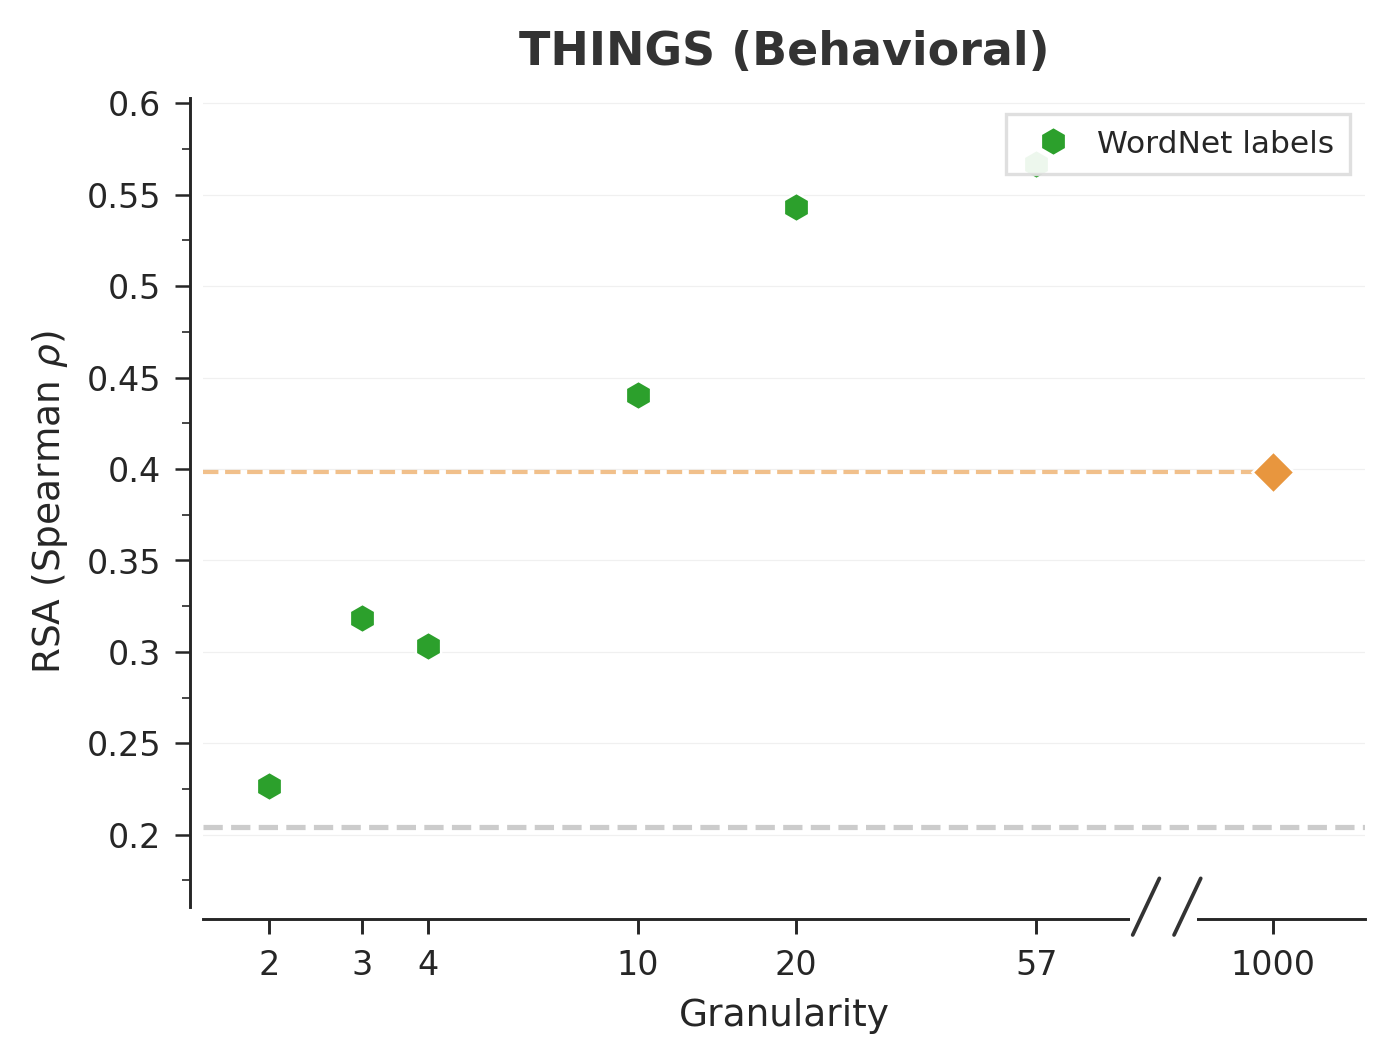
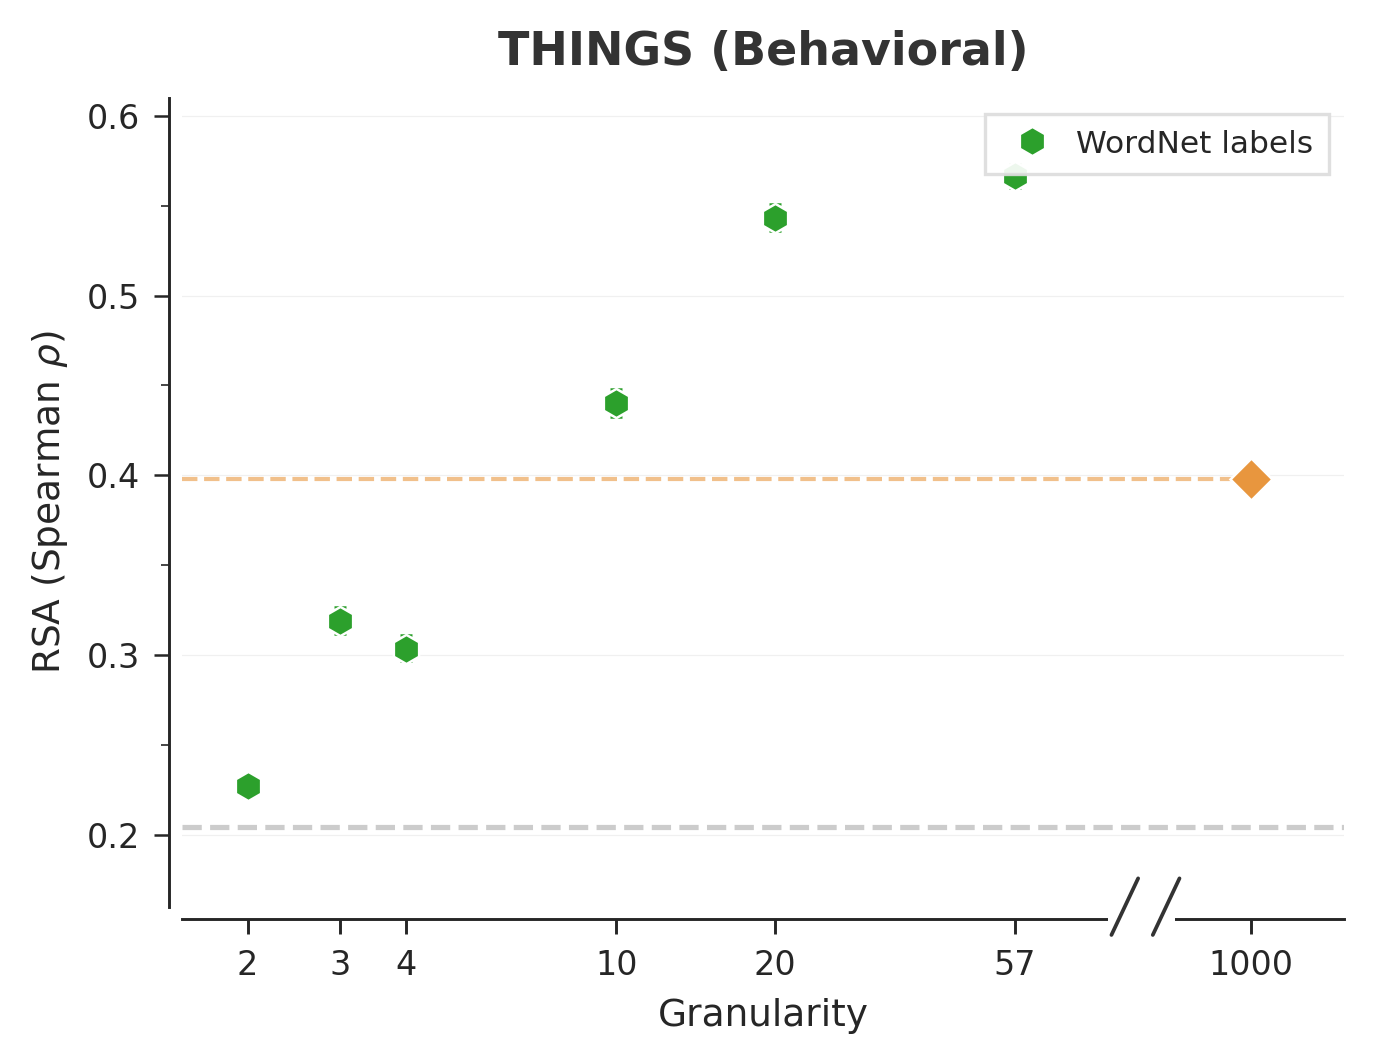
🎨 ED Figs 1/2/6/7: align y-axes and structure with main figures
ED Fig. 1a/2 neural panels now force per-(dataset, region) y-limits and
0.05 tick cadence to exactly match Fig. 3; ED Fig. 1b reuses
fig4.panel_coarseness.plot_coarseness via monkey-patched arch list so the
torn CI band, title, legend, and y-limits inherit from Fig. 4B. ED Fig. 2
neural panels reuse fig3.panel_raw for the torn-tear break and relocate
the legend between data and untrained line. ED Fig. 7 syncs y-limits to
Fig. 3. ED Fig. 6 neural keeps data-driven y-limits (Fig. 3's range
clipped low-k reconstruction tails) and drops the untrained legend entry
since it is labelled inline.

diff --git a/manuscript/figures/extended_data/S1_coarsegrain_models/S1_coarsegrain_models.py b/manuscript/figures/extended_data/S1_coarsegrain_models/S1_coarsegrain_models.py
@@ -228,10 +228,12 @@ def generate_s1a():
     # ── Pre-compute fig3 y-limits using its ORIGINAL 3-arch set ──
     panels = [
         # (row, col, dataset, region, show_ylabel, show_xlabel, show_untrained, tick_interval)
-        (0, 0, "tvsd", "V1",                    True,  False, False, None),
+        # tick_interval=0.05 everywhere so the major-tick cadence matches
+        # fig3's rendered panels (which auto-locate to 0.05 at fig3's size).
+        (0, 0, "tvsd", "V1",                    True,  False, False, 0.05),
         (0, 1, "tvsd", "IT",                    False, False, False, 0.05),
-        (1, 0, "nsd",  "early visual stream",   True,  True,  True,  None),
-        (1, 1, "nsd",  "ventral visual stream", False, True,  False, None),
+        (1, 0, "nsd",  "early visual stream",   True,  True,  True,  0.05),
+        (1, 1, "nsd",  "ventral visual stream", False, True,  False, 0.05),
     ]
     fig3_ylims = {
         (ds, region): _precompute_fig3_ylim(ds, region, ytick)
@@ -259,12 +261,14 @@ def generate_s1a():
     # ── Figure geometry matching fig3's data-panel x-axis width (3.747") ──
     # fig3: figsize=(14,8.5), left=0.06, right=0.97, 3 cols, wspace=0.20
     #       per-col width = 14*(0.97-0.06)/(3+2*0.20) = 3.7471"
-    # S1:   2 data cols, wspace=0.20, left=0.08, right=0.97
-    #       figsize_w = 3.7471*(2+0.20)/(0.97-0.08) = 9.264"
-    fig = plt.figure(figsize=(9.26, 6.8))
+    # S1:   2 data cols, wspace=0.20, left=0.13, right=0.97
+    #       figsize_w = 3.7471*(2+0.20)/(0.97-0.13) = 9.812"
+    # Wider left margin so the rotated TVSD/NSD row labels don't collide
+    # with the "RSA (Spearman ρ)" y-axis label of the left column.
+    fig = plt.figure(figsize=(9.81, 6.8))
     gs = gridspec.GridSpec(2, 2, figure=fig,
                            hspace=0.30, wspace=0.20,
-                           left=0.08, right=0.97, top=0.87, bottom=0.10)
+                           left=0.13, right=0.97, top=0.87, bottom=0.10)
 
     axes = {}
     try:
@@ -298,13 +302,14 @@ def generate_s1a():
                             color="#333333", pad=7)
 
     # Row headers — dataset labels
+    # Place row headers to the LEFT of the y-axis label, clear of it.
     for row, (title, subtitle) in enumerate([
         ("TVSD", "Macaque electrophysiology"),
         ("NSD", "Human fMRI"),
     ]):
         pos = axes[(row, 0)].get_position()
-        fig.text(0.02, (pos.y0 + pos.y1) / 2 + 0.015, title,
-                 fontsize=11, fontweight="bold", color="#1a1a1a",
+        fig.text(0.015, (pos.y0 + pos.y1) / 2, title,
+                 fontsize=12, fontweight="bold", color="#1a1a1a",
                  ha="center", va="center", rotation=90)
 
     # Column headers — cortical level
@@ -338,69 +343,32 @@ def generate_s1a():
 # ── S1B: THINGS Behavioral (single panel) ───────────────────────────────
 
 def generate_s1b():
-    """S1B: THINGS behavioral — single panel, all 4 PCA sources."""
-    fig, ax = plt.subplots(1, 1, figsize=(5, 3.8))
+    """S1B: THINGS behavioral — structurally identical to main Figure 4B.
 
-    bl_mean, bl_ci_low, bl_ci_high = _fetch_things_baseline(epoch=20)
-    un_mean, _, _ = _fetch_things_baseline(epoch=0)
+    Reuses `fig4.panel_coarseness.plot_coarseness` directly (same torn CI
+    band, same axes, same title, same legend styling) and monkey-patches
+    its architecture list to S1's 4 PCA sources.
+    """
+    sys.path.insert(0, "manuscript/figures/fig4")
+    import panel_coarseness as _fig4b  # noqa: WPS433
 
-    all_y = [bl_mean]
-    if not np.isnan(un_mean):
-        all_y.append(un_mean)
+    # Save fig4B originals; restore in finally
+    _orig_arches = _fig4b.ARCHITECTURES
+    _orig_style  = _fig4b.ARCH_STYLE
 
-    for arch_idx, (arch_key, folder, _) in enumerate(ARCHITECTURES):
-        style = ARCH_STYLE[arch_key]
-        means, errs_lo, errs_hi = _fetch_things_data(folder)
-        all_y.extend(m for m in means if not np.isnan(m))
-        jitter = _compute_jitter_wide(arch_idx, len(ARCHITECTURES))
+    # Monkey-patch fig4B to use all 4 PCA sources. Reuse S1's ARCH_STYLE,
+    # which already shares AlexNet/CLIP colors with fig4B and adds ViT/DINO.
+    _fig4b.ARCHITECTURES = ARCHITECTURES
+    _fig4b.ARCH_STYLE    = ARCH_STYLE
 
-        for i, cfg in enumerate(COARSE_CFGS):
-            if np.isnan(means[i]):
-                continue
-            ax.errorbar(cfg * jitter, means[i],
-                        yerr=[[errs_lo[i]], [errs_hi[i]]],
-                        fmt=style["marker"], color=style["color"],
-                        markersize=MARKER_SIZE,
-                        markeredgecolor=EDGE_COLOR, markeredgewidth=EDGE_WIDTH,
-                        capsize=1.5, capthick=0.5,
-                        ecolor=style["color"], elinewidth=0.7, zorder=4)
-
-    # 1000-way baseline
-    bl_err_lo = max(bl_mean - bl_ci_low, 0) if not np.isnan(bl_ci_low) else 0
-    bl_err_hi = max(bl_ci_high - bl_mean, 0) if not np.isnan(bl_ci_high) else 0
-    ax.errorbar(BREAK_1K_POS, bl_mean,
-                yerr=[[bl_err_lo], [bl_err_hi]],
-                fmt="D", color=BASELINE_1K_COLOR, markersize=MARKER_SIZE,
-                markeredgecolor=EDGE_COLOR, markeredgewidth=EDGE_WIDTH,
-                capsize=1.5, capthick=0.5,
-                ecolor=BASELINE_1K_COLOR, elinewidth=0.7, zorder=5)
-    ax.axhline(bl_mean, color=BASELINE_1K_COLOR, linestyle="--",
-               linewidth=1.0, alpha=0.6, zorder=2)
-
-    # Untrained baseline
-    if not np.isnan(un_mean):
-        ax.axhline(un_mean, color="#AAAAAA", linestyle="--",
-                    linewidth=1.0, alpha=0.6, zorder=2)
-        ax.text(0.03, un_mean, "Untrained",
-                fontsize=6.5, fontstyle="italic", color="#999999",
-                ha="left", va="bottom",
-                transform=ax.get_yaxis_transform(), zorder=10)
-
-    y_min, y_max = min(all_y), max(all_y)
-    y_range = y_max - y_min
-    _format_broken_xaxis(ax, show_xlabel=True)
-    draw_xaxis_break(ax)
-    ax.set_ylim(y_min - y_range * 0.12, y_max + y_range * 0.10)
-    format_yaxis(ax)
-    ax.set_ylabel(r"RSA (Spearman $\rho$)", fontsize=9, labelpad=4)
-    sns.despine(ax=ax, right=True, top=True, offset=3)
-
-    # Legend — right side, just above untrained line
-    ax.legend(handles=_build_legend(), fontsize=8, frameon=True,
-              fancybox=False, framealpha=0.92, edgecolor="#dddddd",
-              borderpad=0.5, handletextpad=0.4, labelspacing=0.3,
-              title="Coarse label source", title_fontsize=8,
-              loc="right", bbox_to_anchor=(1.0, 0.32))
+    # Match fig4B's physical panel size (figure4.py allocates ~one quarter
+    # of a 14-inch-wide figure to panel B).
+    fig, ax = plt.subplots(1, 1, figsize=(4.6, 3.6))
+    try:
+        _fig4b.plot_coarseness(ax)
+    finally:
+        _fig4b.ARCHITECTURES = _orig_arches
+        _fig4b.ARCH_STYLE    = _orig_style
 
     plt.tight_layout()
     out = f"{OUTPUT_DIR}/S1b_behavioral.png"

diff --git a/manuscript/figures/extended_data/S2_wordnet/S2_wordnet.py b/manuscript/figures/extended_data/S2_wordnet/S2_wordnet.py
@@ -55,27 +55,15 @@ NEURAL_PANELS = [
 
 
 def get_wordnet_summary(neural_dataset, region, cfg_id):
-    """Get mean score (+ cross-subject SEM) for a WordNet condition."""
-    conn = sqlite3.connect(DB_PATH)
-    df = pd.read_sql("""
-        SELECT score FROM results
-        WHERE neural_dataset = ? AND region = ? AND cfg_id = ?
-          AND pca_labels_folder = ? AND compare_method = 'spearman'
-          AND reconstruct_from_pcs = 0 AND epoch = 20
-    """, conn, params=[neural_dataset, region, cfg_id, WORDNET_FOLDER])
-    conn.close()
-
-    if df.empty:
+    """Get mean + bootstrap 95% CI for a WordNet condition (matches Fig. 3)."""
+    s = get_condition_summary(
+        neural_dataset, region, WORDNET_FOLDER, cfg_id,
+        "spearman", epoch=20, analysis="rsa")
+    mean = s["mean"]
+    if np.isnan(mean):
         return np.nan, 0, 0
-
-    mean = df["score"].mean()
-    if len(df) > 1:
-        sem = df["score"].std() / np.sqrt(len(df))
-        err_lo = 1.96 * sem
-        err_hi = 1.96 * sem
-    else:
-        err_lo, err_hi = 0, 0
-
+    err_lo = max(mean - s["ci_low"], 0) if not np.isnan(s["ci_low"]) else 0
+    err_hi = max(s["ci_high"] - mean, 0) if not np.isnan(s["ci_high"]) else 0
     return mean, err_lo, err_hi
 
 
@@ -193,7 +181,13 @@ def plot_wordnet_scatter(ax, neural_dataset, region,
 
 
 def plot_neural_figure():
-    """Generate the 2x2 neural figure (TVSD top, NSD bottom)."""
+    """Generate the 2x2 neural figure (TVSD top, NSD bottom).
+
+    Reuses `fig3.panel_raw.plot_raw` directly — same torn CI band, same
+    broken-axis tooth, same y-label formatting — and monkey-patches its
+    architecture + x-tick list to the single WordNet source. Y-limits are
+    force-matched to the corresponding panels of main Figure 3.
+    """
     setup_style()
     plt.rcParams.update({
         "axes.labelsize": 9,
@@ -205,25 +199,80 @@ def plot_neural_figure():
         "ytick.major.width": 0.7,
     })
 
-    fig = plt.figure(figsize=(11, 7.5))
+    # ── Import fig3 renderers ──
+    sys.path.insert(0, "manuscript/figures/fig3")
+    import shared as _fig3_shared         # noqa: WPS433
+    import panel_raw as _fig3_panel_raw   # noqa: WPS433
+    from panel_raw import plot_raw as _fig3_plot_raw  # noqa: WPS433
+
+    # ── Pre-compute fig3 y-limits using its ORIGINAL 3-arch set ──
+    fig3_ylims = {}
+    for _, _, ds, region, _ in NEURAL_PANELS:
+        f_tmp, ax_tmp = plt.subplots(figsize=(3.75, 2.5))
+        _fig3_plot_raw(ax_tmp, ds, region,
+                       show_ylabel=False, show_xlabel=False,
+                       show_untrained_label=False,
+                       tick_interval=0.05, lollipop_ax=None)
+        fig3_ylims[(ds, region)] = ax_tmp.get_ylim()
+        plt.close(f_tmp)
+
+    # ── Monkey-patch fig3 to our WordNet arch + cfgs ──
+    wn_arches = [("wordnet", WORDNET_FOLDER, "WordNet")]
+    wn_style  = {"wordnet": {"color": WORDNET_COLOR, "marker": WORDNET_MARKER}}
+
+    _orig_shared_arches = _fig3_shared.ARCHITECTURES
+    _orig_shared_style  = _fig3_shared.ARCH_STYLE
+    _orig_shared_cfgs   = _fig3_shared.COARSE_CFGS
+    _orig_pr_arches     = _fig3_panel_raw.ARCHITECTURES
+    _orig_pr_style      = _fig3_panel_raw.ARCH_STYLE
+    _orig_pr_cfgs       = _fig3_panel_raw.COARSE_CFGS
+
+    _fig3_shared.ARCHITECTURES    = wn_arches
+    _fig3_shared.ARCH_STYLE       = wn_style
+    _fig3_shared.COARSE_CFGS      = WORDNET_CFGS
+    _fig3_panel_raw.ARCHITECTURES = wn_arches
+    _fig3_panel_raw.ARCH_STYLE    = wn_style
+    _fig3_panel_raw.COARSE_CFGS   = WORDNET_CFGS
+    try:
+        _fig3_shared.fetch_arch_data.cache_clear()
+    except AttributeError:
+        pass
+
+    # Figure geometry matching fig3 data-panel widths
+    fig = plt.figure(figsize=(9.81, 6.8))
     gs = gridspec.GridSpec(
         2, 2, figure=fig,
-        wspace=0.25, hspace=0.30,
-        top=0.88, bottom=0.08, left=0.12, right=0.96,
+        wspace=0.20, hspace=0.30,
+        top=0.87, bottom=0.10, left=0.13, right=0.97,
     )
 
     axes = {}
-    for row, col, nd, region, title in NEURAL_PANELS:
-        ax = fig.add_subplot(gs[row, col])
-        show_ylabel = (col == 0)
-        show_xlabel = (row == 1)
-        show_untrained = (row == 1)  # label untrained on bottom row only
-        print(f"Drawing: {nd} / {region}")
-        plot_wordnet_scatter(ax, nd, region,
-                             show_ylabel=show_ylabel,
-                             show_xlabel=show_xlabel,
-                             show_untrained_label=show_untrained)
-        axes[(row, col)] = ax
+    try:
+        for row, col, nd, region, title in NEURAL_PANELS:
+            ax = fig.add_subplot(gs[row, col])
+            show_ylabel = (col == 0)
+            show_xlabel = (row == 1)
+            show_untrained = (row == 1 and col == 0)
+            print(f"Drawing: {nd} / {region}")
+            _fig3_plot_raw(ax, nd, region,
+                           show_ylabel=show_ylabel,
+                           show_xlabel=show_xlabel,
+                           show_untrained_label=show_untrained,
+                           tick_interval=0.05, lollipop_ax=None)
+            # Force y-limits to match fig3 exactly
+            ax.set_ylim(*fig3_ylims[(nd, region)])
+            axes[(row, col)] = ax
+    finally:
+        _fig3_shared.ARCHITECTURES    = _orig_shared_arches
+        _fig3_shared.ARCH_STYLE       = _orig_shared_style
+        _fig3_shared.COARSE_CFGS      = _orig_shared_cfgs
+        _fig3_panel_raw.ARCHITECTURES = _orig_pr_arches
+        _fig3_panel_raw.ARCH_STYLE    = _orig_pr_style
+        _fig3_panel_raw.COARSE_CFGS   = _orig_pr_cfgs
+        try:
+            _fig3_shared.fetch_arch_data.cache_clear()
+        except AttributeError:
+            pass
 
     # Column headers (cortical level)
     fig.canvas.draw()
@@ -273,10 +322,12 @@ def plot_neural_figure():
                markeredgecolor=EDGE_COLOR, markeredgewidth=EDGE_WIDTH,
                markersize=MARKER_SIZE, label="WordNet labels"),
     ]
+    # Legend in panel b — right side, below the data cluster but above
+    # the untrained baseline line, so it never occludes data points.
     axes[(0, 1)].legend(handles=legend_handles, fontsize=7.5, frameon=True,
                         fancybox=False, framealpha=0.92, edgecolor="#dddddd",
                         borderpad=0.5, handletextpad=0.4, labelspacing=0.3,
-                        loc="upper right")
+                        loc="right", bbox_to_anchor=(1.0, 0.30))
 
     out = f"{OUTPUT_DIR}/S2_wordnet_neural.png"
     fig.savefig(out, dpi=300, bbox_inches="tight", facecolor="white", edgecolor="none")

diff --git a/manuscript/figures/extended_data/S7_seed_variability/S7_seed_variability.py b/manuscript/figures/extended_data/S7_seed_variability/S7_seed_variability.py
@@ -262,9 +262,26 @@ def _build_legend():
     ]
 
 
+def _precompute_fig3_ylims():
+    """Dry-run fig3's plot_raw for each (dataset, region) to capture ylim."""
+    sys.path.insert(0, "manuscript/figures/fig3")
+    from panel_raw import plot_raw as _fig3_plot_raw  # noqa: WPS433
+    ylims = {}
+    for _, _, ds, region, *_ in NEURAL_PANELS:
+        f, a = plt.subplots(figsize=(3.75, 2.5))
+        _fig3_plot_raw(a, ds, region,
+                       show_ylabel=False, show_xlabel=False,
+                       show_untrained_label=False,
+                       tick_interval=0.05, lollipop_ax=None)
+        ylims[(ds, region)] = a.get_ylim()
+        plt.close(f)
+    return ylims
+
+
 def generate_neural():
-    """S8A: Neural — 2x2 grid (TVSD top | NSD bottom) x (Early | Higher)."""
+    """S7A: Neural — 2x2 grid (TVSD top | NSD bottom) x (Early | Higher)."""
     setup_style()
+    fig3_ylims = _precompute_fig3_ylims()
     plt.rcParams.update({
         "axes.labelsize": 9, "axes.titlesize": 10,
         "xtick.labelsize": 8, "ytick.labelsize": 8,
@@ -285,6 +302,8 @@ def generate_neural():
         plot_seed_panel(ax, conn, ds, region,
                         show_ylabel=ylabel, show_xlabel=xlabel,
                         show_untrained_label=untrained_label)
+        # Force y-limits to match main Figure 3 for the same (dataset, region)
+        ax.set_ylim(*fig3_ylims[(ds, region)])
         axes[(row, col)] = ax
 
     # Region sub-titles
@@ -332,6 +351,18 @@ def generate_neural():
     plt.close()
 
 
+def _precompute_fig4_behavioral_ylim():
+    """Dry-run fig4's panel B (plot_coarseness) to capture its y-limits."""
+    import sys as _sys
+    _sys.path.insert(0, "manuscript/figures/fig4")
+    from panel_coarseness import plot_coarseness as _fig4_plot_coarseness
+    fig_tmp, ax_tmp = plt.subplots(figsize=(4, 3))
+    _fig4_plot_coarseness(ax_tmp)
+    ylim = ax_tmp.get_ylim()
+    plt.close(fig_tmp)
+    return ylim
+
+
 def generate_behavioral():
     """S8B: THINGS behavioral — single seed variability panel."""
     setup_style()
@@ -341,6 +372,9 @@ def generate_behavioral():
         "axes.linewidth": 0.7, "xtick.major.width": 0.7, "ytick.major.width": 0.7,
     })
 
+    # Capture fig4 panel B's y-limits BEFORE drawing (so our panel matches).
+    fig4_ylim = _precompute_fig4_behavioral_ylim()
+
     conn = sqlite3.connect(DB_PATH)
 
     fig, ax = plt.subplots(figsize=(5, 3.5))
@@ -349,6 +383,8 @@ def generate_behavioral():
     plot_seed_panel(ax, conn, "things-behavior", "N/A",
                     show_ylabel=True, show_xlabel=True,
                     show_untrained_label=True)
+    # Force y-limits to match Figure 4 panel B exactly
+    ax.set_ylim(*fig4_ylim)
 
     ax.set_title("THINGS (Behavioral)", fontsize=11, fontweight="bold",
                  color="#333333", pad=8)

diff --git a/manuscript/figures/extended_data/S6_reconstruction/S6_reconstruction.py b/manuscript/figures/extended_data/S6_reconstruction/S6_reconstruction.py
@@ -137,7 +137,7 @@ def plot_reconstruction_panel(ax, neural_dataset, region,
 
 
 def _build_legend():
-    """Legend handles: 1000-way, coarse, untrained."""
+    """Legend handles: 1000-way and coarse only (untrained labelled inline)."""
     return [
         Line2D([], [], color=FINE_COLOR, marker="o", markersize=4,
                linewidth=1.5, markeredgecolor="white", markeredgewidth=0.5,
@@ -145,8 +145,6 @@ def _build_legend():
         Line2D([], [], color=COARSE_COLOR, marker="s", markersize=4,
                linewidth=1.5, markeredgecolor="white", markeredgewidth=0.5,
                label=r"Coarse (top-$k$)"),
-        Line2D([], [], color=UNTRAINED_COLOR, linestyle=":", linewidth=1.3,
-               label="Untrained"),
     ]
 
 
